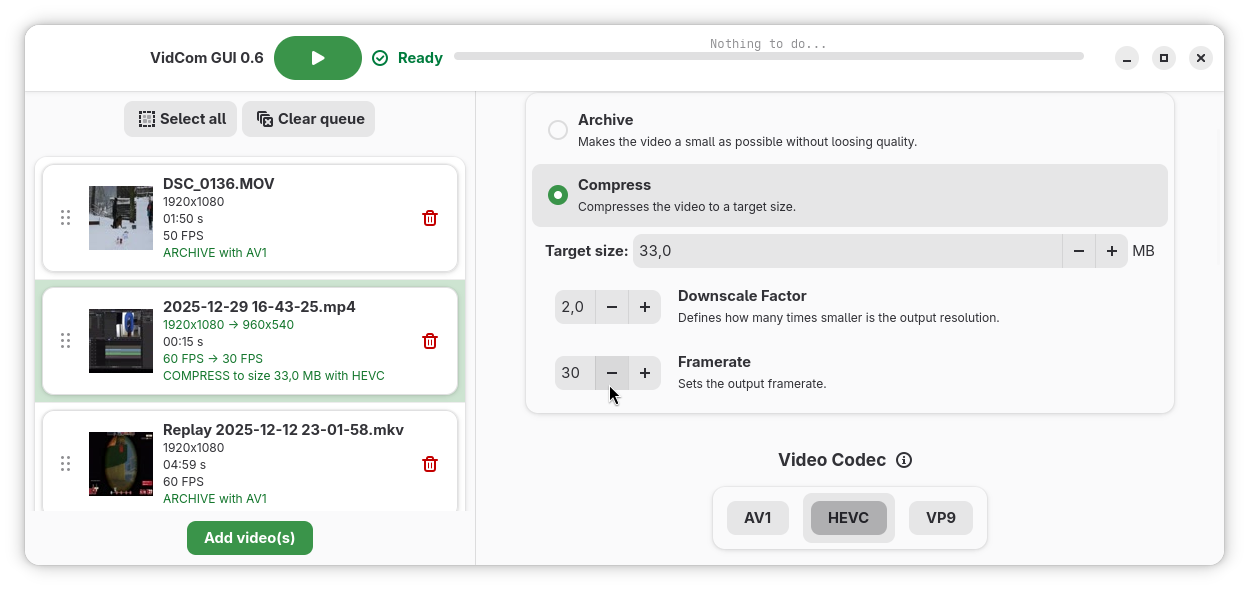
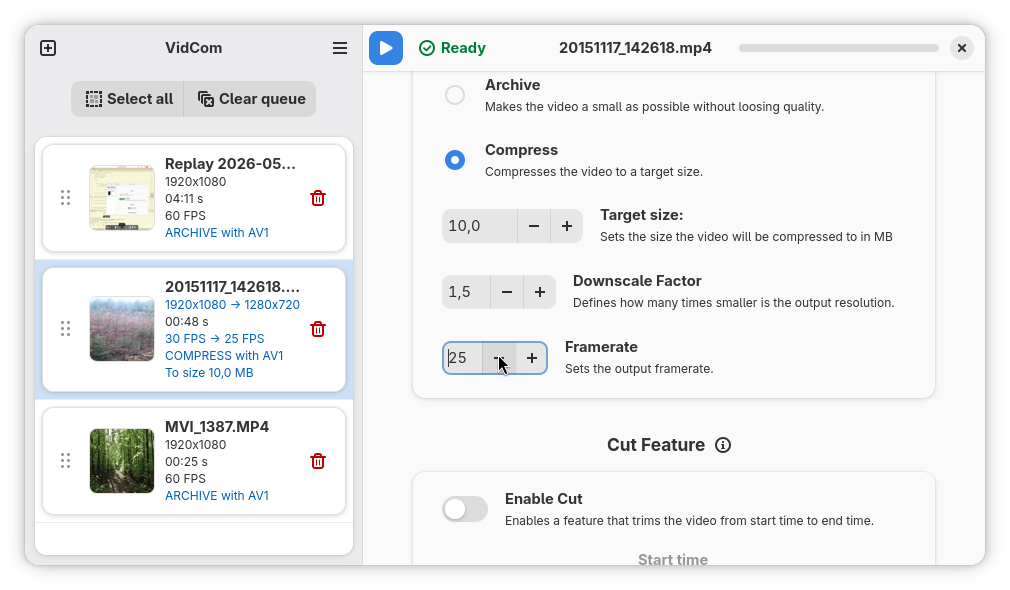
Prepare some files for 0.82 release

diff --git a/README.md b/README.md
@@ -1,6 +1,6 @@
 # VidCom
 
-VidCom (short for Video Compression) is a simple utility for compressing video. It offers both GUI and CLI interface and utilises `ffmpeg` for the video encoding. 
+VidCom (short for Video Compression) is a simple utility for archiving videos. It offers both GUI and CLI interface and utilises `ffmpeg` for the video encoding. 
 
 For screenshots and basic information, visit the [project website](https://seja-arctic-fox.github.io). 
 
@@ -10,7 +10,7 @@ VidCom features two modes; **Archive mode** and **Compress mode**:
 
 - **Compress mode** compresses a video to a specified target size. 
 
-There are also other options for quick setup, such as reducing resolution and frame rate, choosing an output directory and a trimming function. More advanced users (and anyone else) can set the codec used for encoding and tweak some parameters of chosen codec to trade time for better compression and vice versa. 
+There are also other options for quick setup, such as reducing resolution and frame rate, choosing an output directory and a trimming function. More advanced users can set the codec used for encoding and tweak some parameters of chosen codec to trade time for better compression and vice versa. 
 
 You can process as many videos as you want by adding them to a queue (GUI) or specifying their paths in the command (CLI). 
 
@@ -56,8 +56,10 @@ yay -S vidcom
 #### Flatpak
 You can get VidCom on [Flathub](https://flathub.org/en/apps/io.github.seja_arctic_fox.vidcom)
 
+Beta versions are also avaiable during development. You can test them by adding the `flathub-beta` repository and installing the app from there. 
+
 #### Building
-1. Install dependencies: `meson`, `ffmpeg`, `gtk4`, `libadwaita` and `jsoncpp`. Alternatively change `gtk4` for `gtkmm-4.0`. For example on Arch Linux: 
+1. Install dependencies: `meson`, `ffmpeg`, `gtk4`, `gtkmm-4.0`, `libadwaita` and `jsoncpp`. For example on Arch Linux: 
 
 ```bash
 pacman -S meson ffmpeg gtk4 libadwaita jsoncpp
@@ -107,15 +109,17 @@ I will update the lists below from time to time;
 ### Planned features / suggestions
 - [ ] At least try to make a Windows build
 - [ ] Implement translations (or ability to translate the app)
-- [ ] About window/section
+- [x] About window/section
 - [ ] Add an ability to change default configuration/settings. save the configs in a file
-- [ ] Change the current paned window split into the typical Adwaita side panel for queue and the main page
-- [ ] "No video selected" page for the settings page
-- [ ] Copy subtitles automatically when they are present in the original video
+- [x] Change the current paned window split into the typical Adwaita side panel for queue and the main page
+- [x] "No video selected" page for the settings page
+- [x] Copy subtitles automatically when they are present in the original video
 - [ ] Be able to select multiple videos manually, not be limited to just selecting single or all the videos (when holding Shift or other key)
-- [ ] Make the runner (in the header bar) slimmer and simpler
-- [ ] Show state of loading/encoding in the settings page space
-- [ ] Highlight the currently encoding video in the queue
+- [x] Make the runner (in the header bar) slimmer and simpler
+- [x] Show state of loading/encoding in the settings page space
+
+~~- Highlight the currently encoding video in the queue~~
+
 - [ ] Copy settings from one video to another with right click/shortcut/button
 - [ ] Keyboard shortcuts
 
